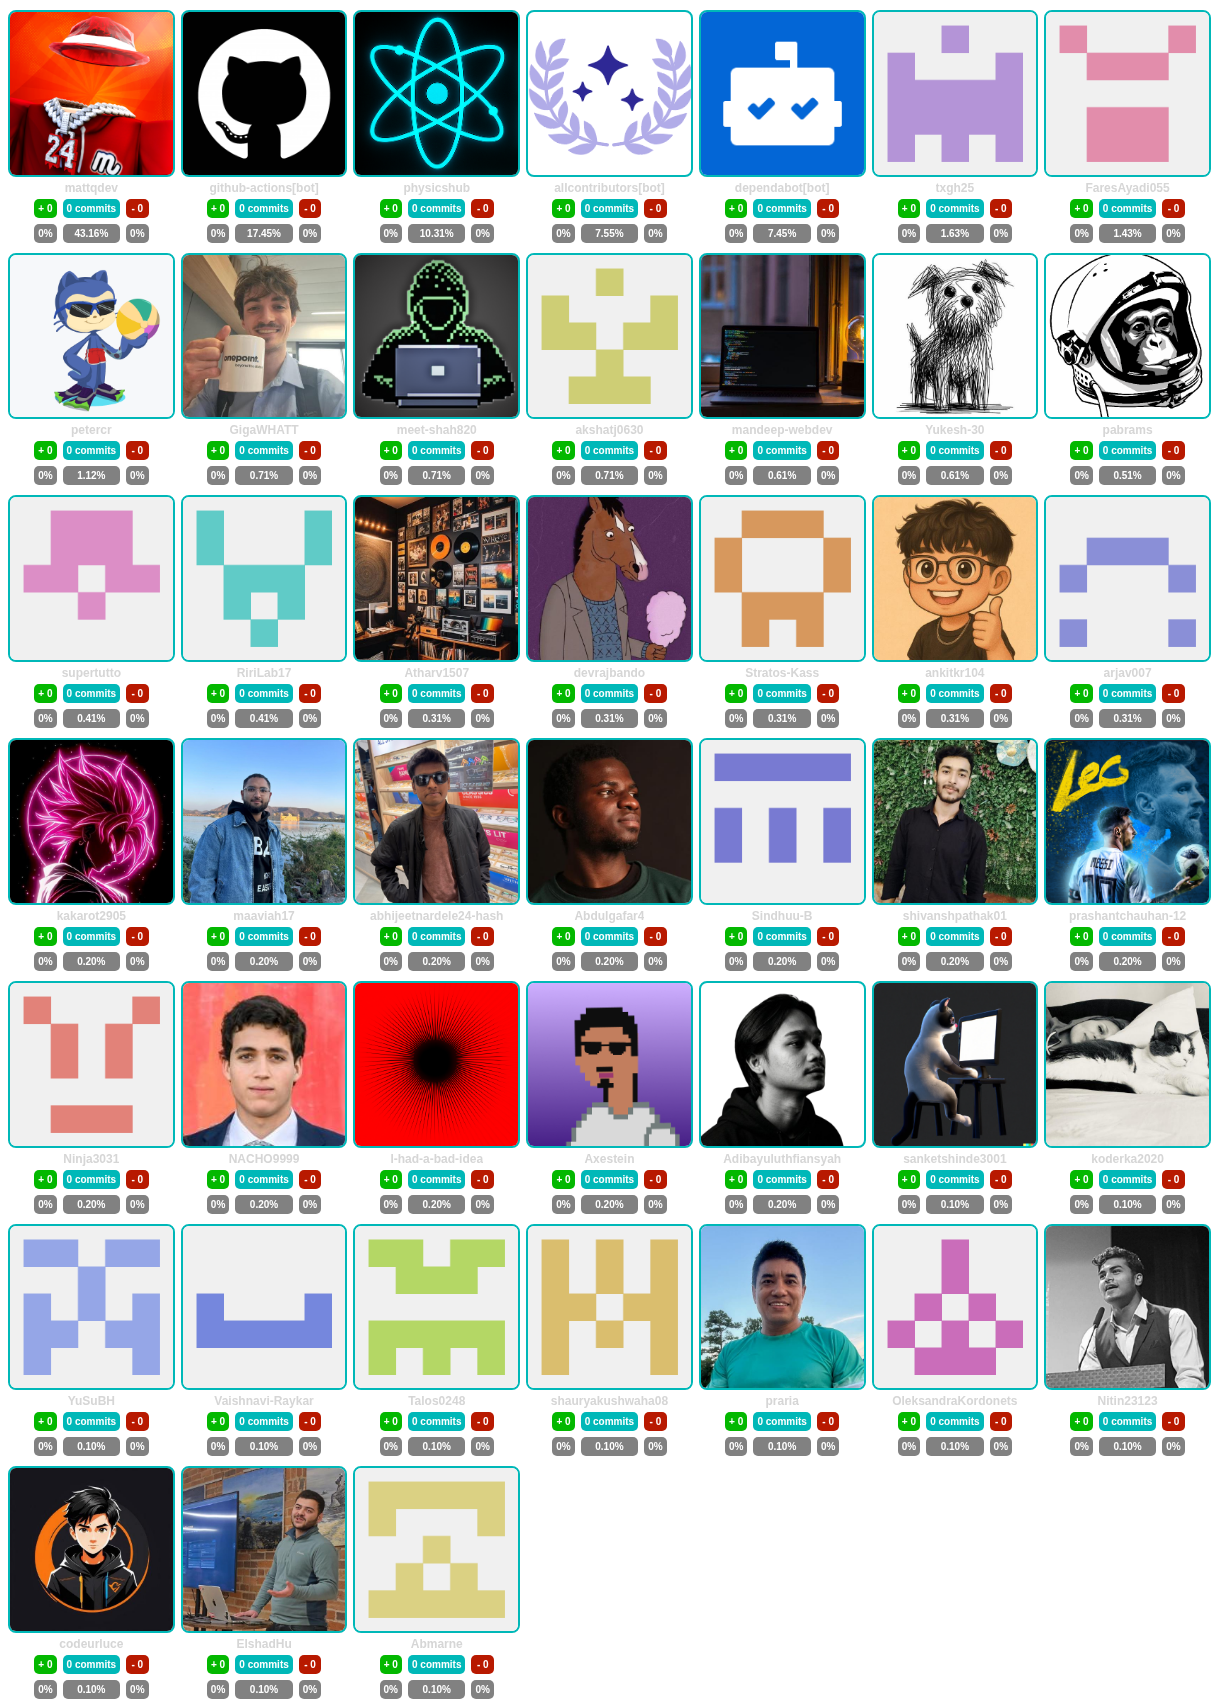
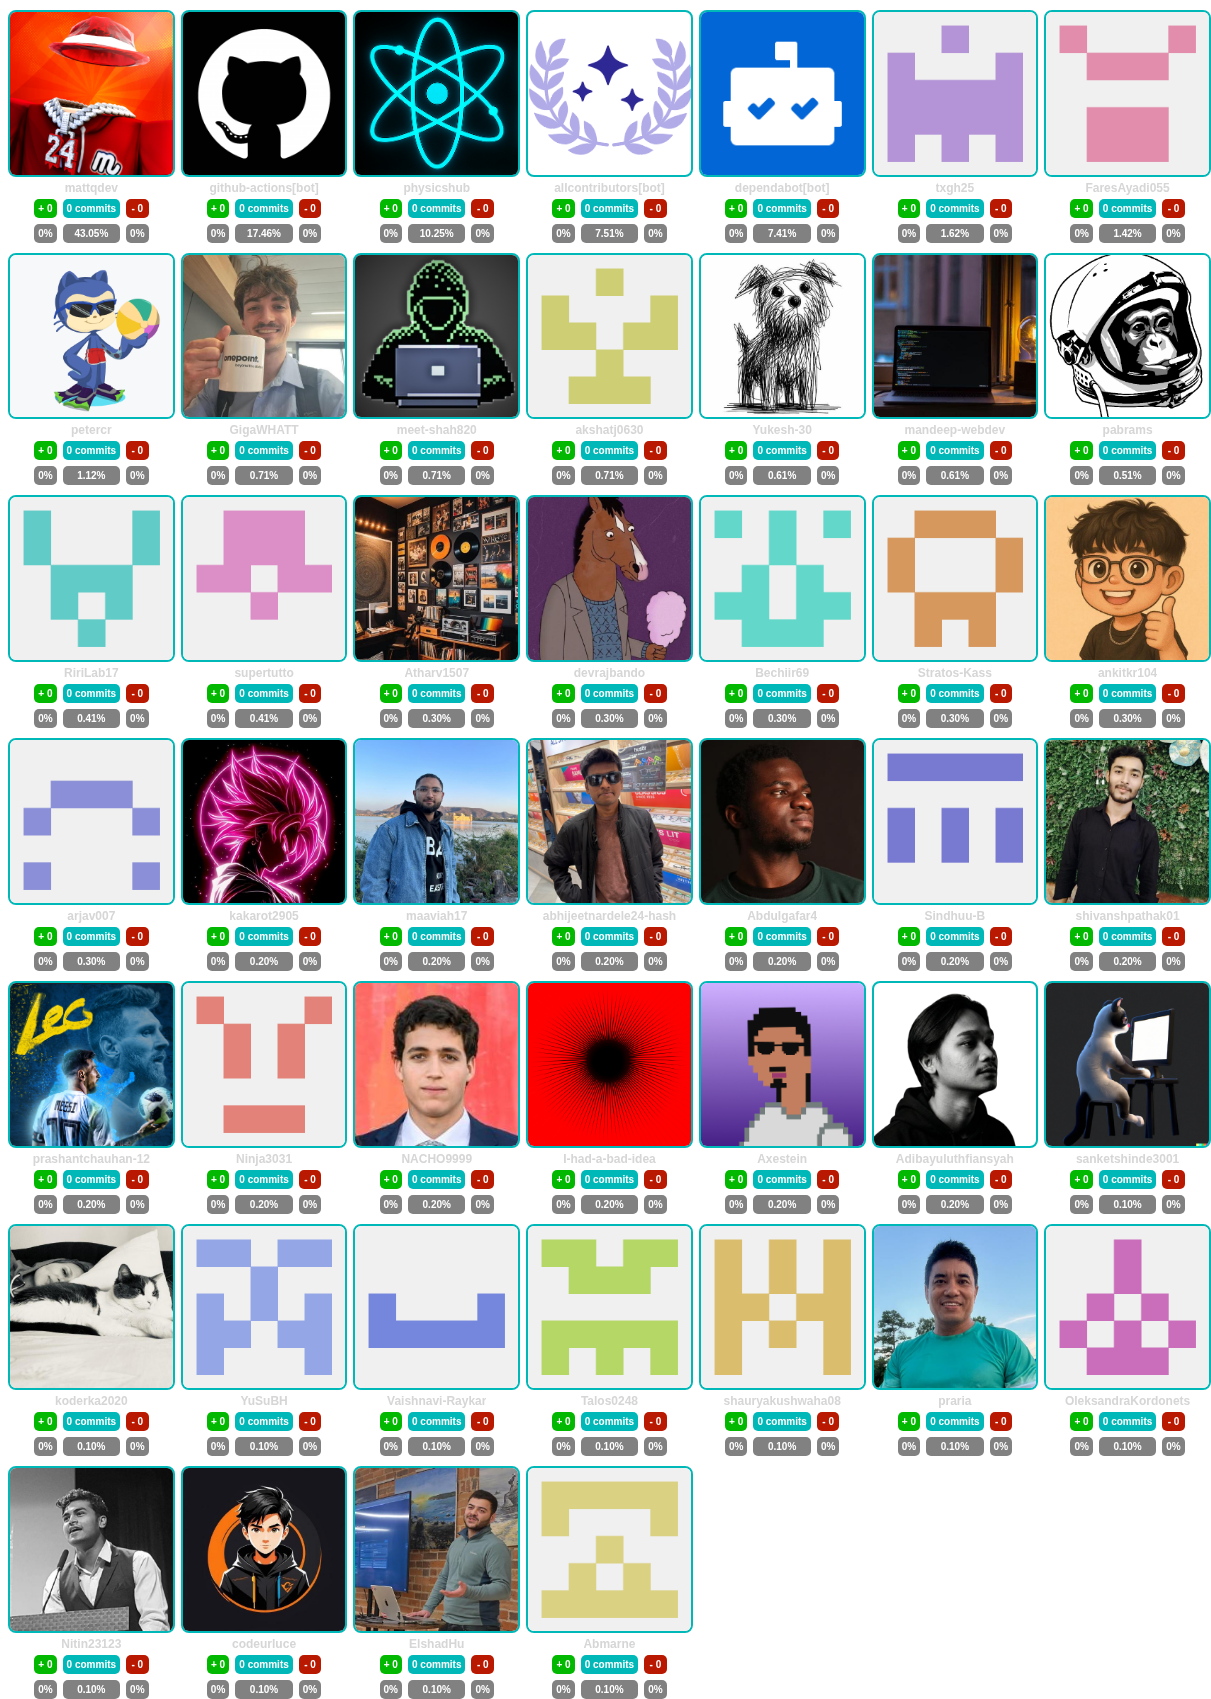
docs: update contributors

diff --git a/scripts/contributors/contributors.html b/scripts/contributors/contributors.html
@@ -19,7 +19,7 @@
                 <span>0 commits</span>
               </div>
               <div class="percentage">
-                <span>43.16%</span>
+                <span>43.05%</span>
               </div>
             </div>
             <div class="item">
@@ -50,7 +50,7 @@
                 <span>0 commits</span>
               </div>
               <div class="percentage">
-                <span>17.45%</span>
+                <span>17.46%</span>
               </div>
             </div>
             <div class="item">
@@ -81,7 +81,7 @@
                 <span>0 commits</span>
               </div>
               <div class="percentage">
-                <span>10.31%</span>
+                <span>10.25%</span>
               </div>
             </div>
             <div class="item">
@@ -112,7 +112,7 @@
                 <span>0 commits</span>
               </div>
               <div class="percentage">
-                <span>7.55%</span>
+                <span>7.51%</span>
               </div>
             </div>
             <div class="item">
@@ -143,7 +143,7 @@
                 <span>0 commits</span>
               </div>
               <div class="percentage">
-                <span>7.45%</span>
+                <span>7.41%</span>
               </div>
             </div>
             <div class="item">
@@ -174,7 +174,7 @@
                 <span>0 commits</span>
               </div>
               <div class="percentage">
-                <span>1.63%</span>
+                <span>1.62%</span>
               </div>
             </div>
             <div class="item">
@@ -205,7 +205,7 @@
                 <span>0 commits</span>
               </div>
               <div class="percentage">
-                <span>1.43%</span>
+                <span>1.42%</span>
               </div>
             </div>
             <div class="item">
@@ -343,9 +343,9 @@
         </div>
       </li>
 
-      <li title="mandeep-webdev">
-        <img src="https://avatars.githubusercontent.com/u/107471933?v=4" alt="mandeep-webdev"/>
-        <h3>mandeep-webdev</h3>
+      <li title="Yukesh-30">
+        <img src="https://avatars.githubusercontent.com/u/180100862?v=4" alt="Yukesh-30"/>
+        <h3>Yukesh-30</h3>
         <div class="container">
             <div class="item">
               <div class="added">
@@ -374,9 +374,9 @@
         </div>
       </li>
 
-      <li title="Yukesh-30">
-        <img src="https://avatars.githubusercontent.com/u/180100862?v=4" alt="Yukesh-30"/>
-        <h3>Yukesh-30</h3>
+      <li title="mandeep-webdev">
+        <img src="https://avatars.githubusercontent.com/u/107471933?v=4" alt="mandeep-webdev"/>
+        <h3>mandeep-webdev</h3>
         <div class="container">
             <div class="item">
               <div class="added">
@@ -436,9 +436,9 @@
         </div>
       </li>
 
-      <li title="supertutto">
-        <img src="https://avatars.githubusercontent.com/u/184136337?v=4" alt="supertutto"/>
-        <h3>supertutto</h3>
+      <li title="RiriLab17">
+        <img src="https://avatars.githubusercontent.com/u/233789238?v=4" alt="RiriLab17"/>
+        <h3>RiriLab17</h3>
         <div class="container">
             <div class="item">
               <div class="added">
@@ -467,9 +467,9 @@
         </div>
       </li>
 
-      <li title="RiriLab17">
-        <img src="https://avatars.githubusercontent.com/u/233789238?v=4" alt="RiriLab17"/>
-        <h3>RiriLab17</h3>
+      <li title="supertutto">
+        <img src="https://avatars.githubusercontent.com/u/184136337?v=4" alt="supertutto"/>
+        <h3>supertutto</h3>
         <div class="container">
             <div class="item">
               <div class="added">
@@ -515,7 +515,7 @@
                 <span>0 commits</span>
               </div>
               <div class="percentage">
-                <span>0.31%</span>
+                <span>0.30%</span>
               </div>
             </div>
             <div class="item">
@@ -546,7 +546,38 @@
                 <span>0 commits</span>
               </div>
               <div class="percentage">
-                <span>0.31%</span>
+                <span>0.30%</span>
+              </div>
+            </div>
+            <div class="item">
+              <div class="removed">
+                <span>- 0</span>
+              </div>
+              <div class="percentage">
+                <span>0%</span>
+              </div>
+            </div>
+        </div>
+      </li>
+
+      <li title="Bechiir69">
+        <img src="https://avatars.githubusercontent.com/u/201658476?v=4" alt="Bechiir69"/>
+        <h3>Bechiir69</h3>
+        <div class="container">
+            <div class="item">
+              <div class="added">
+                <span>+ 0</span>
+              </div>
+              <div class="percentage">
+                <span>0%</span>
+              </div>
+            </div>
+            <div class="item">
+              <div class="commits">
+                <span>0 commits</span>
+              </div>
+              <div class="percentage">
+                <span>0.30%</span>
               </div>
             </div>
             <div class="item">
@@ -577,7 +608,7 @@
                 <span>0 commits</span>
               </div>
               <div class="percentage">
-                <span>0.31%</span>
+                <span>0.30%</span>
               </div>
             </div>
             <div class="item">
@@ -608,7 +639,7 @@
                 <span>0 commits</span>
               </div>
               <div class="percentage">
-                <span>0.31%</span>
+                <span>0.30%</span>
               </div>
             </div>
             <div class="item">
@@ -639,7 +670,7 @@
                 <span>0 commits</span>
               </div>
               <div class="percentage">
-                <span>0.31%</span>
+                <span>0.30%</span>
               </div>
             </div>
             <div class="item">
